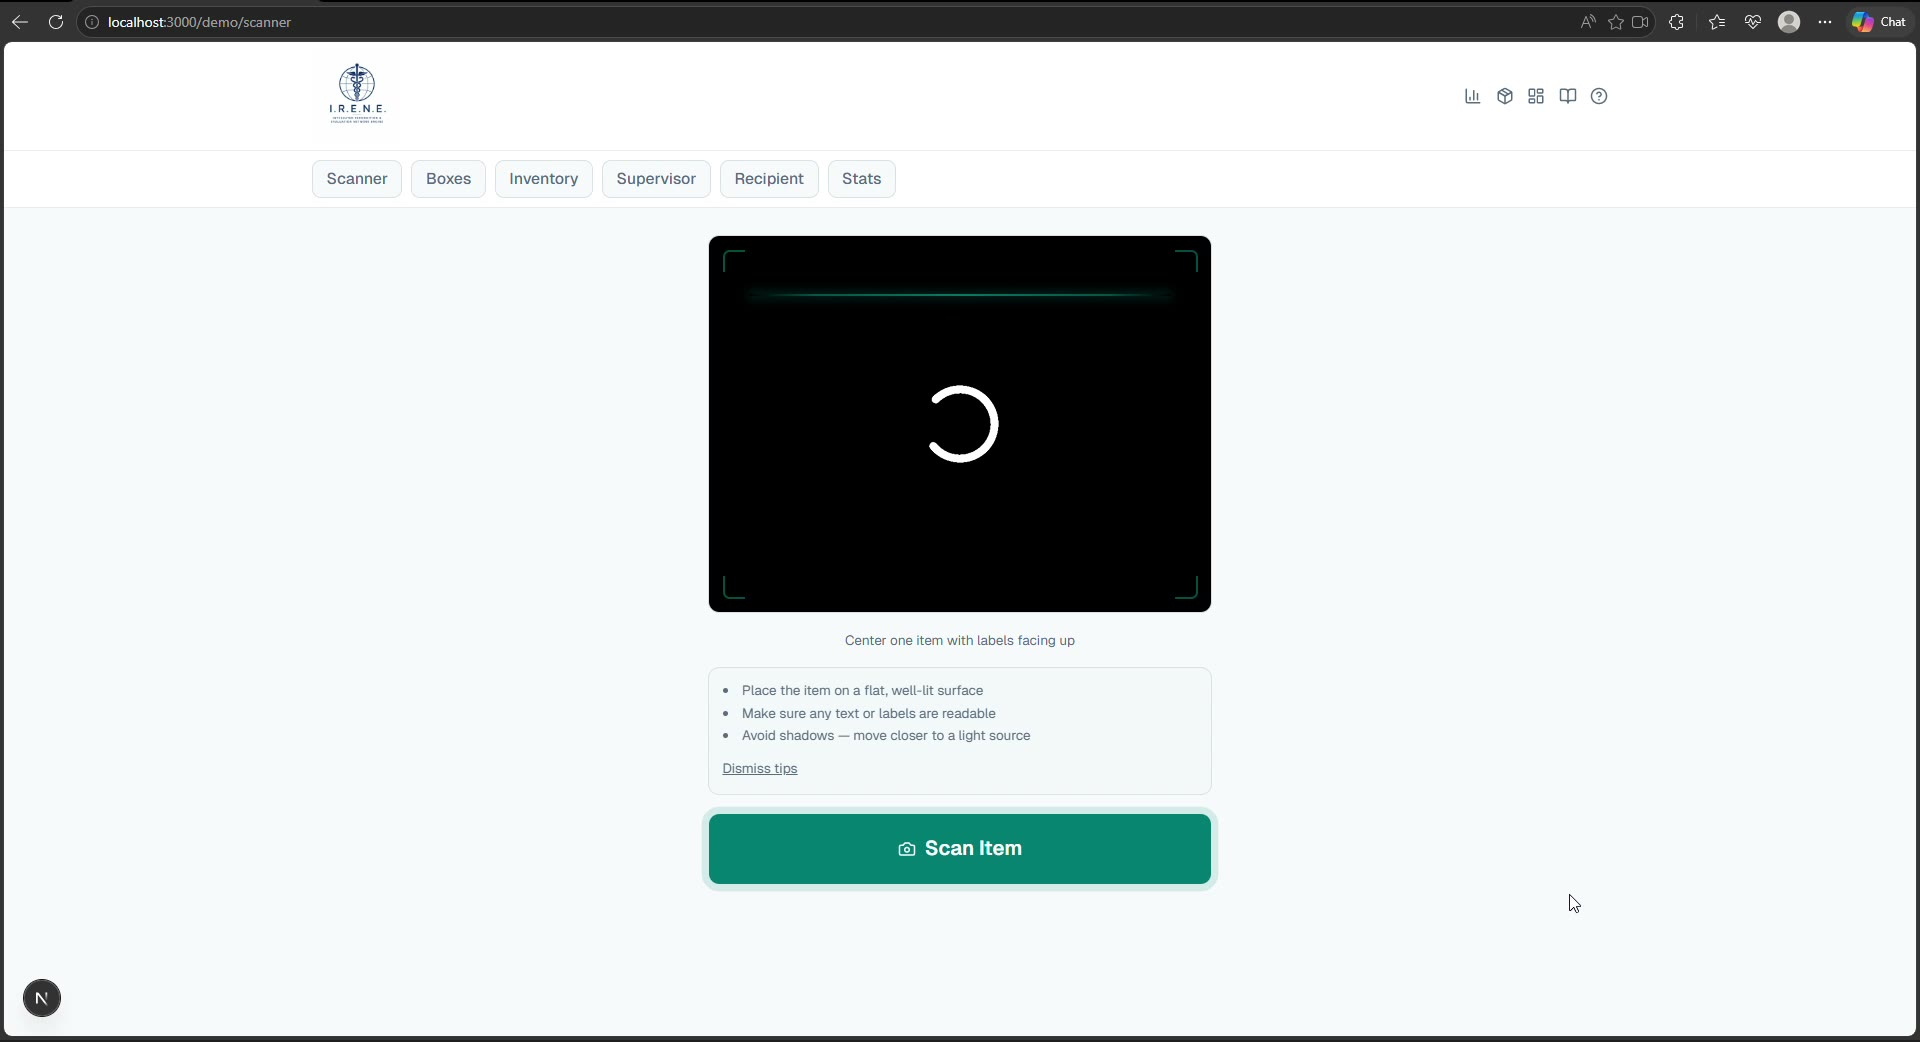
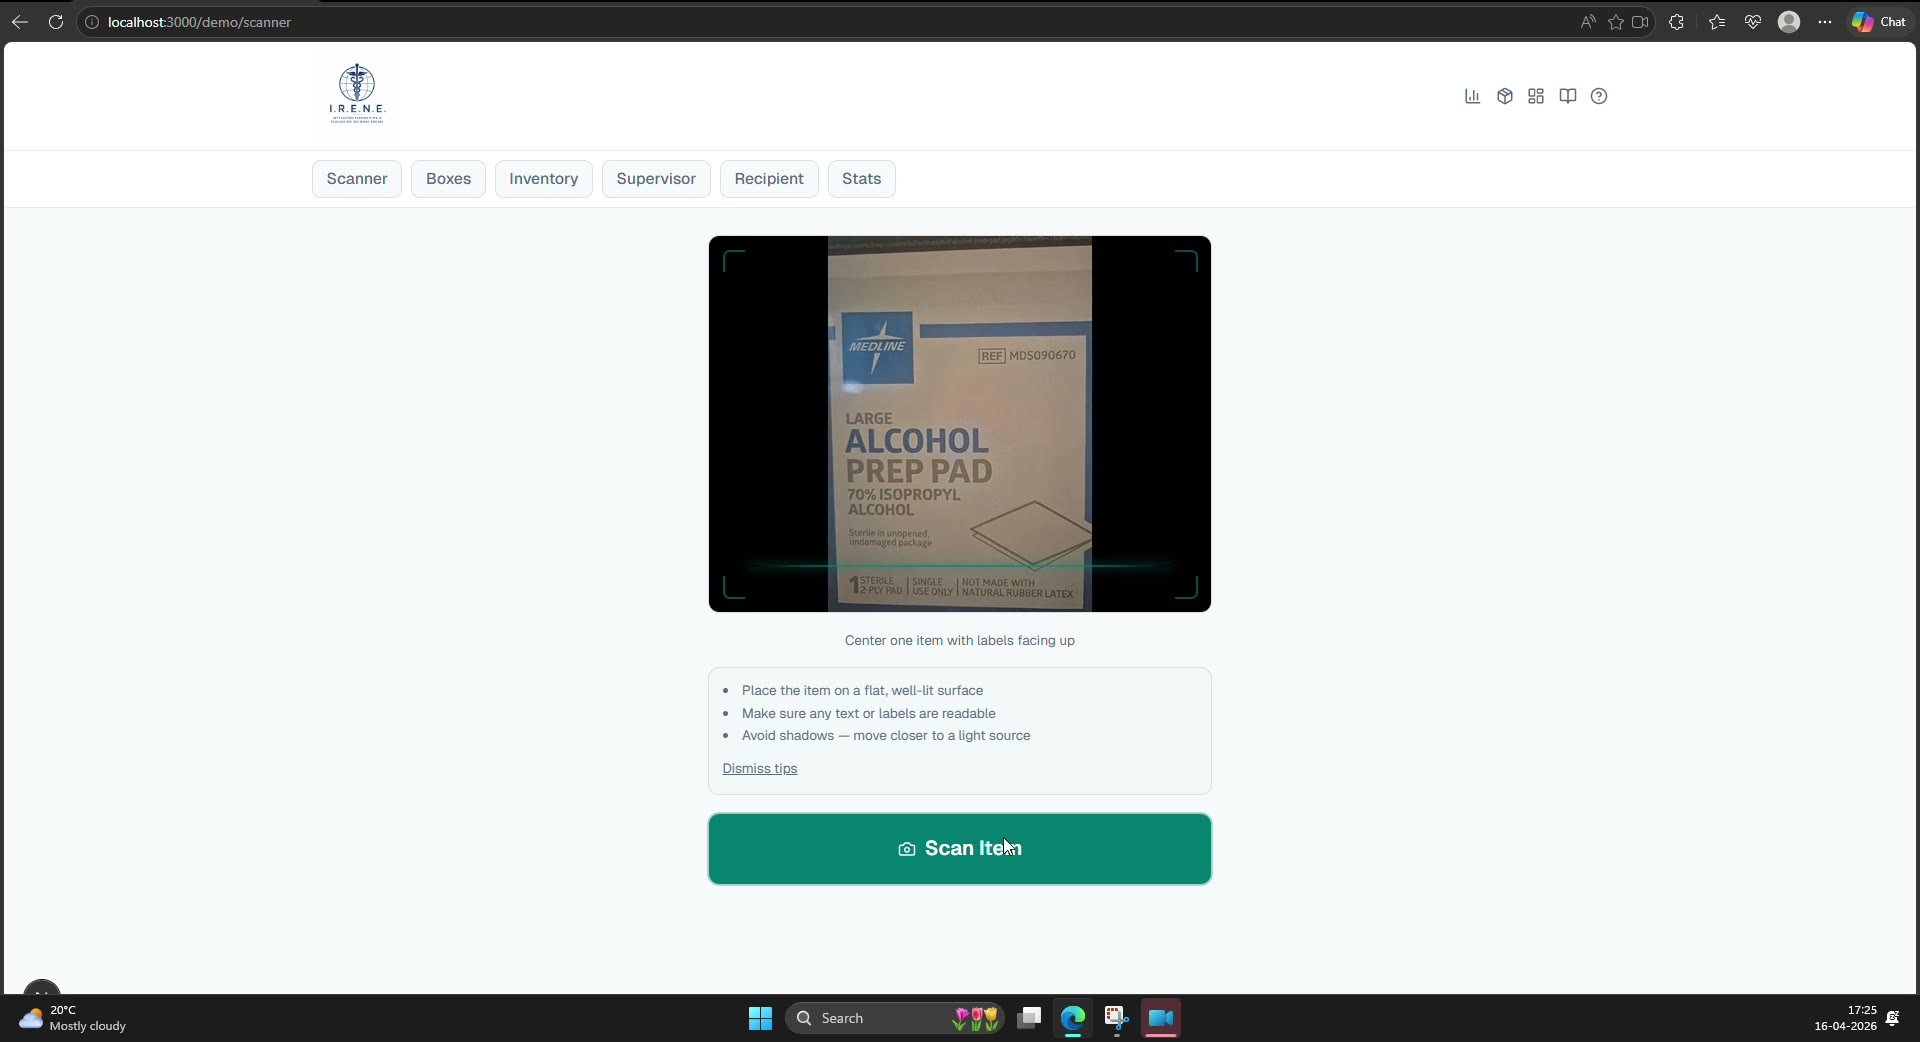
fix: improve IRENE project poster frame

diff --git a/reasoning.md b/reasoning.md
@@ -21,3 +21,8 @@ Append-only. Never delete entries. Agents read this before making design decisio
 **Decision:** Extract first-use poster frames from IRENE and Scheduling demo videos and attach them to the featured project video elements.
 **Why:** Live browser capture briefly showed neutral gray media frames before video metadata loaded; poster frames preserve visual continuity during first paint.
 **Impact:** Projects page now has immediate media content while autoplay videos initialize, with source assets covered by regression tests.
+
+## [2026-09-13 13:48] Refined IRENE first-paint poster
+**Decision:** Use a later IRENE video frame showing the scanned product instead of the earlier loading-spinner frame.
+**Why:** The live responsive capture confirmed the poster prevented blank media, but the later frame communicates the project faster to first-time visitors.
+**Impact:** Featured IRENE media now opens with a clearer product state at every tested viewport.
